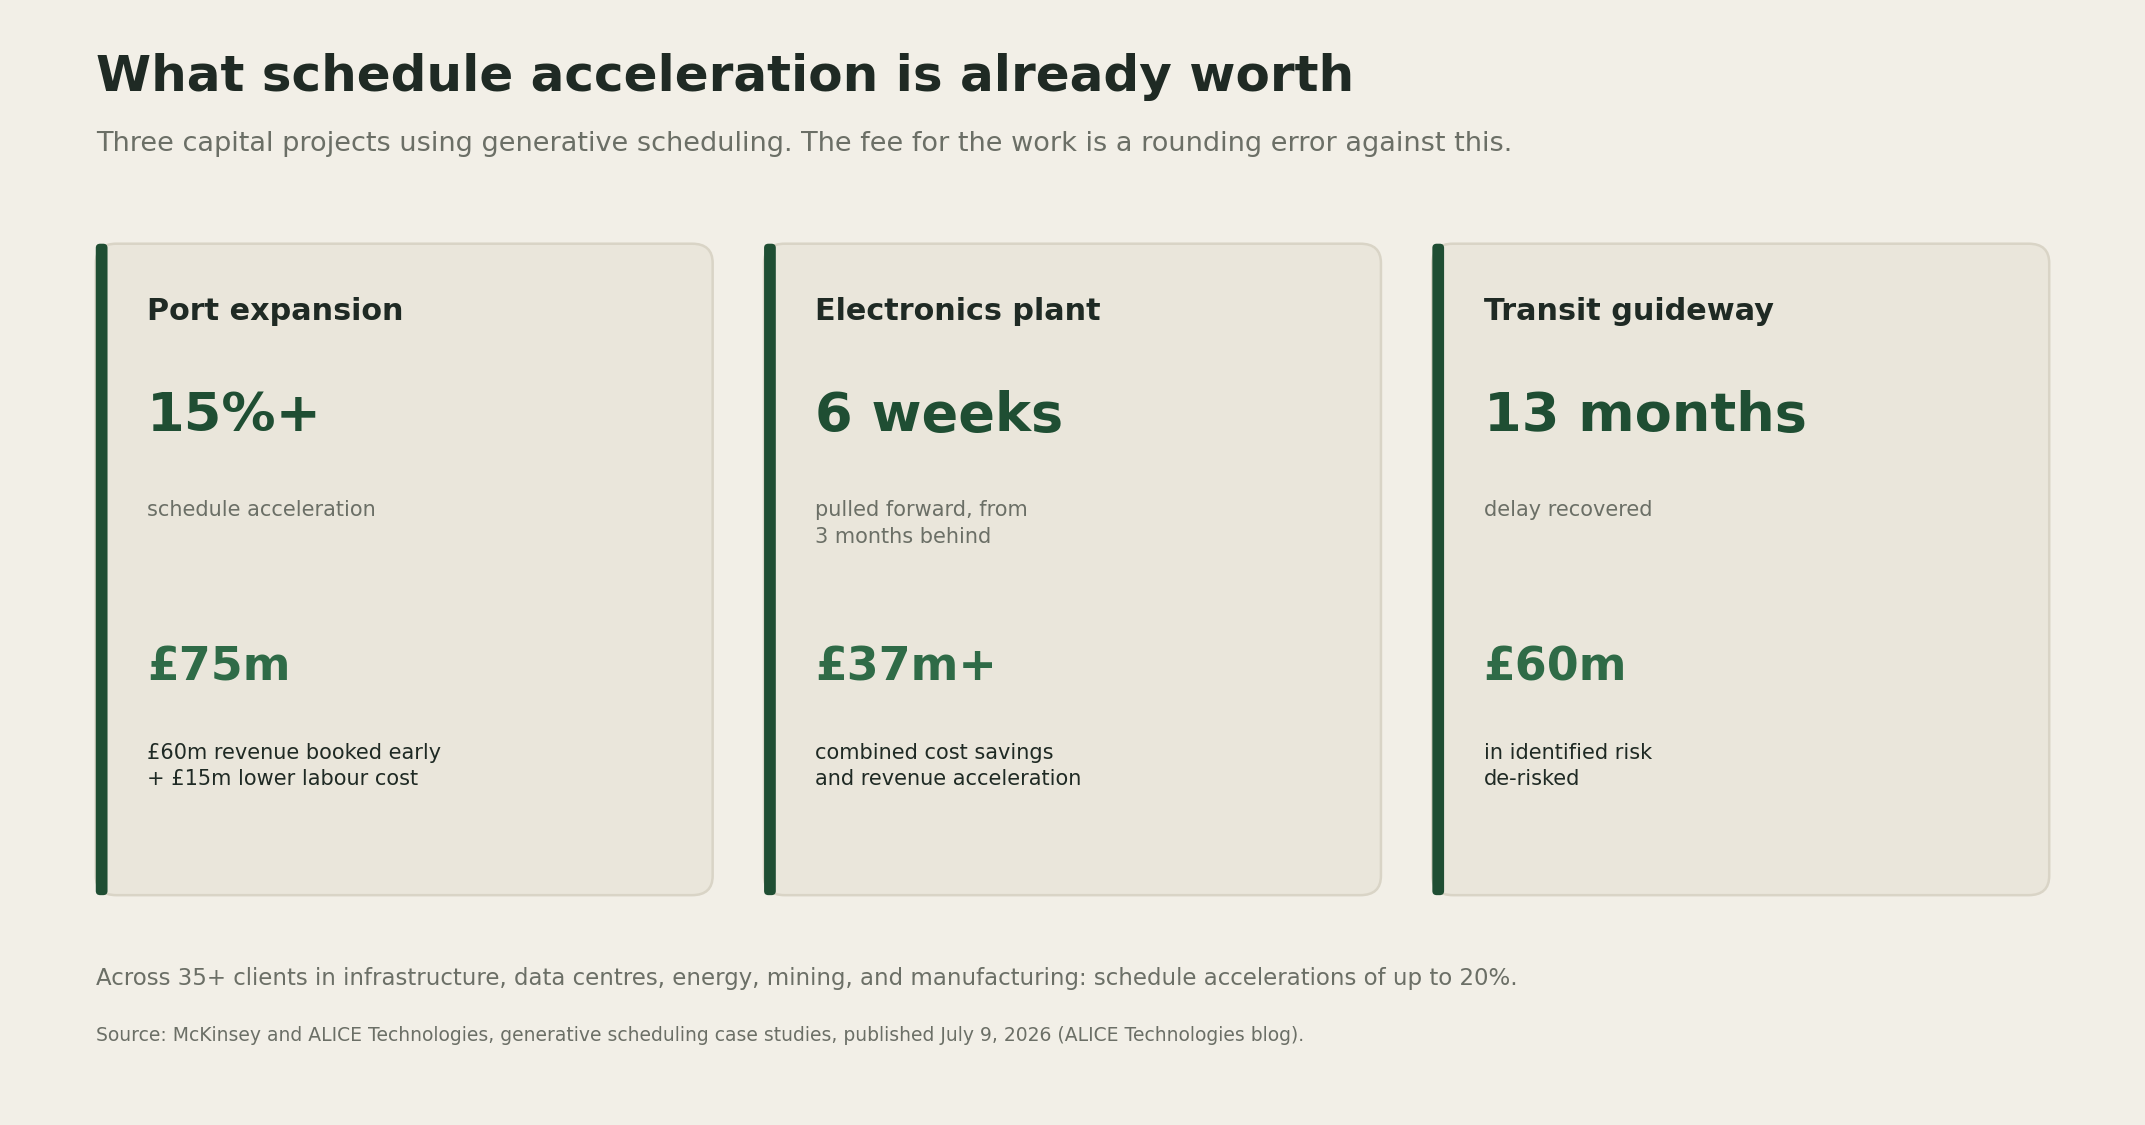
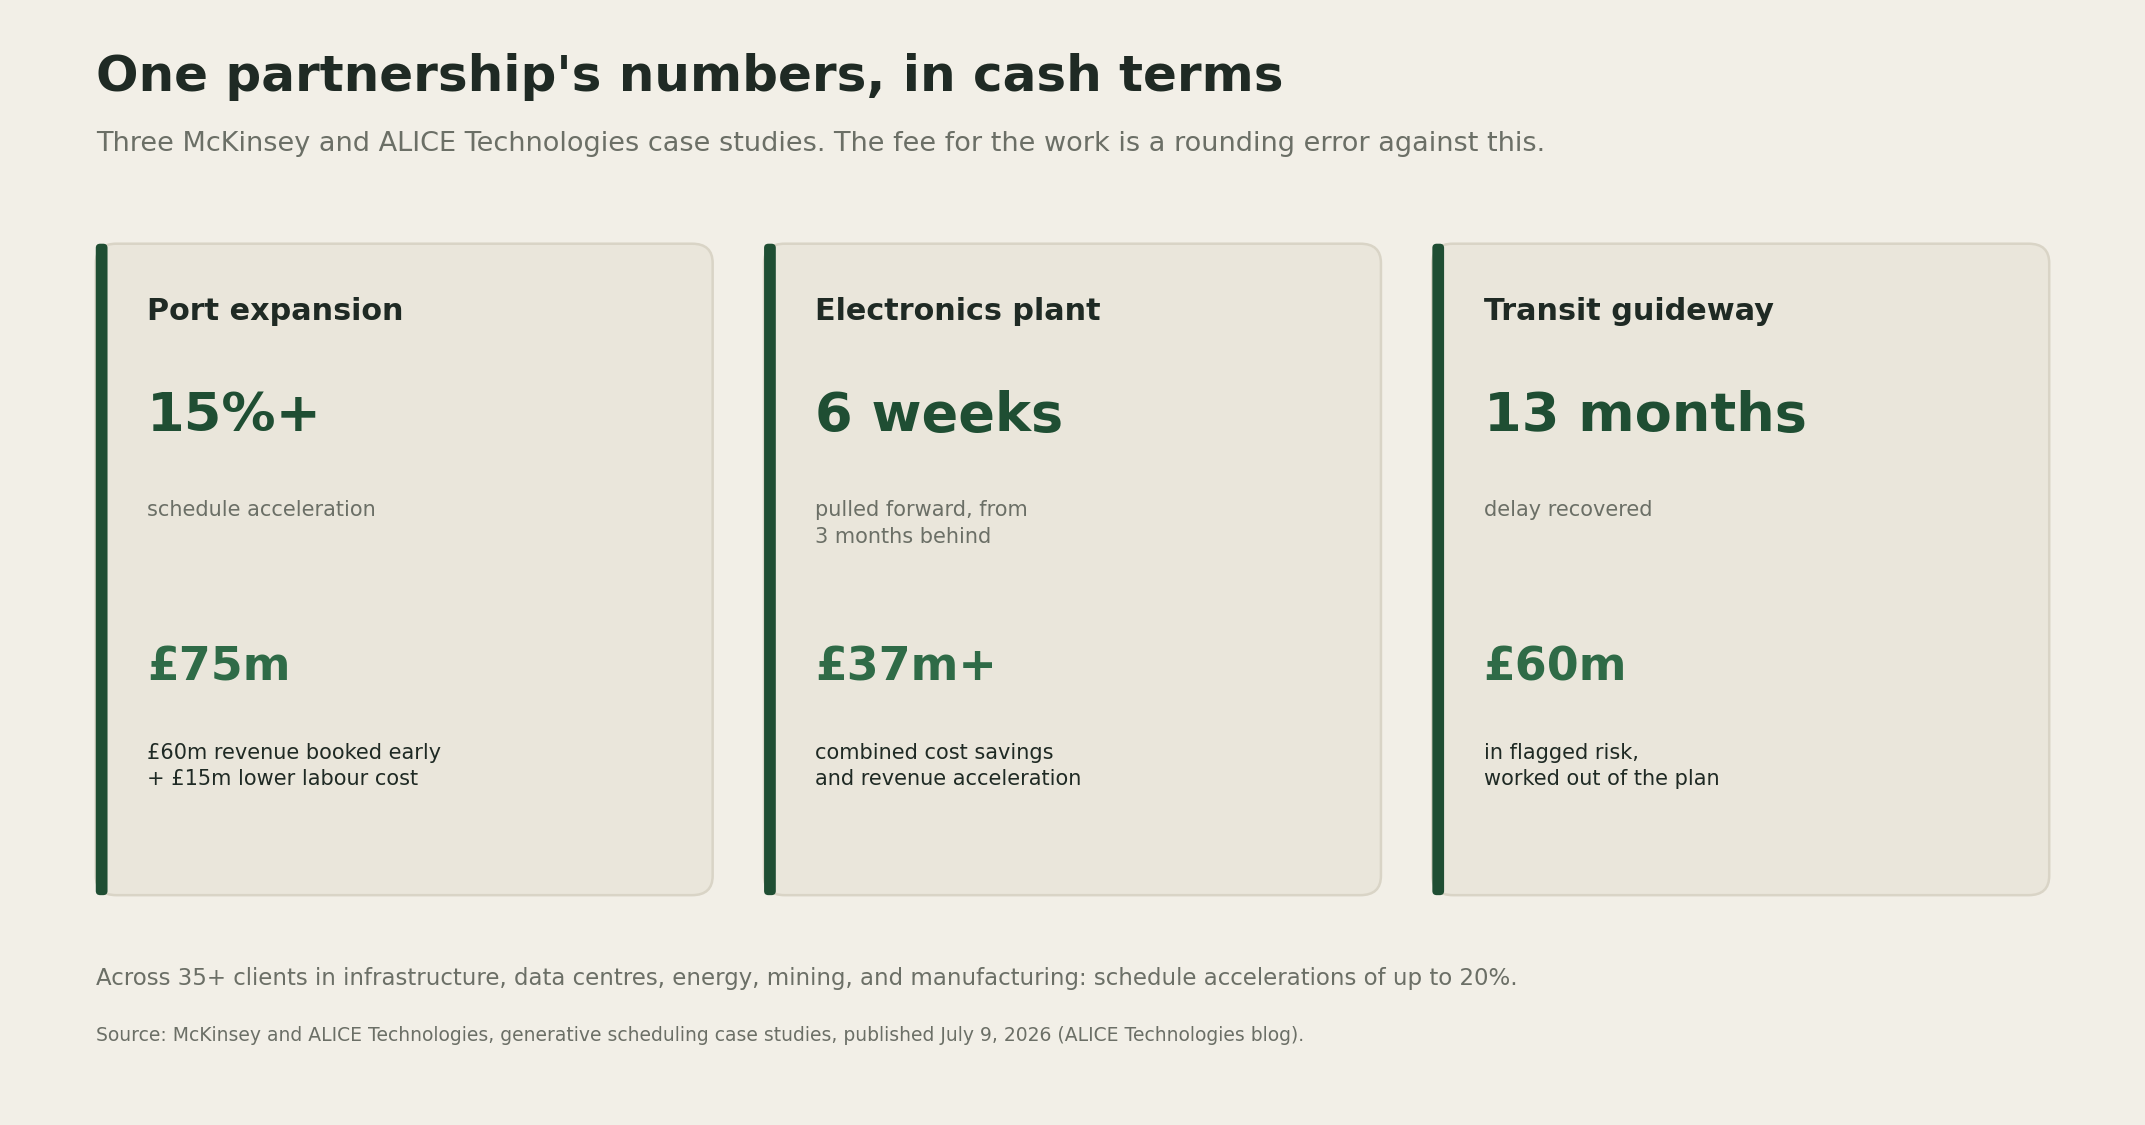
Rebalance sourcing in "The Speed Premium" and fix AI-slop patterns
Diversifies the evidence away from being entirely a McKinsey/ALICE
recap: adds Bent Flyvbjerg's Oxford megaproject research for the
baseline problem and nPlan's independent AACE technical paper for
AI scheduling performance, with McKinsey's report and the ALICE case
studies now one supporting leg instead of the whole argument. Also
fixes a binary-contrast sentence, a faux-insight setup, and a
subject-verb agreement slip caught in review.

Changed region(s): [[0.0312, 0.0311, 0.7184, 0.1556], [0.6872, 0.6533, 0.8121, 0.7156]]

diff --git a/scripts/make_speed_evidence.py b/scripts/make_speed_evidence.py
@@ -16,8 +16,8 @@ ax.set_xlim(0, 14.4)
 ax.set_ylim(0, 7.9)
 ax.axis("off")
 
-ax.text(0.55, 7.35, "What schedule acceleration is already worth", fontsize=24, fontweight="bold", color=INK, family="DejaVu Sans")
-ax.text(0.55, 6.92, "Three capital projects using generative scheduling. The fee for the work is a rounding error against this.", fontsize=13, color=GRAY, family="DejaVu Sans")
+ax.text(0.55, 7.35, "One partnership's numbers, in cash terms", fontsize=24, fontweight="bold", color=INK, family="DejaVu Sans")
+ax.text(0.55, 6.92, "Three McKinsey and ALICE Technologies case studies. The fee for the work is a rounding error against this.", fontsize=13, color=GRAY, family="DejaVu Sans")
 
 card_w = 4.2
 card_h = 4.7
@@ -45,7 +45,7 @@ cards = [
         "metric": "13 months",
         "metric_label": "delay recovered",
         "value": "£60m",
-        "value_label": "in identified risk\nde-risked",
+        "value_label": "in flagged risk,\nworked out of the plan",
     },
 ]
 

diff --git a/articles/2026-07-26-the-speed-premium.md b/articles/2026-07-26-the-speed-premium.md
@@ -7,25 +7,29 @@ audience: essay
 
 # The Speed Premium
 
-New numbers from McKinsey put a real price on how much a shorter schedule is worth, and on who currently keeps that money.
+A real price is starting to show up for how much a shorter schedule is worth, and right now the client keeps nearly all of it.
 
 AI is compressing how long engineering delivery takes. Right now the client keeps almost all of the value created when that happens. The firms that reprice around the days they pull forward, instead of the hours it took to pull them forward, get to keep a share of a pool of value that recent case studies put in the tens of millions of pounds per project.
 
-## The signal
+## The problem, before any vendor's pitch
 
-Three pieces of the same story landed within a few weeks of each other this month. McKinsey published "How AI is reshaping the future of the AEC industry" on July 15, 2026, arguing that AI can automate 50 percent of nonphysical work in architecture and engineering and 39 percent in construction, across 150 workflows in 25 domains ([Construction Dive](https://www.constructiondive.com/news/ai-report-construction-mckinsey-engineering-build-buy/825927/)). The line that matters most for this issue sits inside that report: firms that control their own project data and "the ability to charge for outcomes rather than work processes will see benefits."
+Bent Flyvbjerg, an Oxford professor who has spent three decades studying large projects, put the baseline plainly: nine out of ten megaprojects run over budget, and by his own arithmetic, roughly one project in a thousand hits its cost, schedule, and benefit targets all three at once ([Flyvbjerg, "The Iron Law of Megaproject Management," Oxford Handbook of Megaproject Management, 2017](https://ti.org/pdfs/IronLawofMegaprojects.pdf)). London's Jubilee Line extension overran by 80 percent in real terms. Boston's Big Dig overran by 220 percent. That baseline predates any firm's AI strategy by decades, and it is the actual size of the prize on the table.
 
-A week earlier, McKinsey's Capital Excellence Practice and its scheduling partner ALICE Technologies published case studies from clients running generative scheduling, software that models thousands of possible sequences through a project instead of trusting a single baseline plan ([ALICE Technologies](https://blog.alicetechnologies.com/news/how-using-al-saved-time-and-millions-across-three-big-capital-projects)). Daniel Ahmoye, a McKinsey partner, told Construction Dive that as the tools spread, "advantage is going to come from those who can redesign their work, their roles, how they operate, how they think about commercial models the fastest." He also cautioned that today's productivity gains are "likely soon to be table stakes." The window to charge for this will not stay open on its own.
+## The tools catching up to it
 
-## The evidence
+nPlan, a construction analytics company that trained its models on more than 750,000 historical project schedules, published a technical paper with AACE International in 2024 reporting that its graph neural network models forecast activity durations at least twice as accurately as traditional schedule risk analysis, measured against real project outcomes ([nPlan, AACE International Technical Paper RISK 4435, 2024](https://discover.nplan.io/hubfs/Research%20papers/AACE%20RISK%204435%20Technical%20Paper%20-%202024.pdf)). The paper's case study is a live one, not a demo: eighteen project control professionals on a UK rail program ran the AI models alongside their existing risk process for a year, then switched over entirely.
 
-Here is what the generative scheduling case studies found.
+## What that is worth in cash terms
+
+A similar shift shows up in a different corner of the market. McKinsey's Capital Excellence Practice and its scheduling partner ALICE Technologies published case studies in July from clients running generative scheduling, software that models thousands of possible sequences through a project instead of trusting a single baseline plan ([ALICE Technologies](https://blog.alicetechnologies.com/news/how-using-al-saved-time-and-millions-across-three-big-capital-projects)).
 
 ![Three capital projects using generative scheduling: a port expansion, an electronics plant, and a transit guideway, each showing the schedule move and the pounds of client value it produced.](../assets/speed-premium-evidence.png)
 
-A port expansion project ran more than 15 percent ahead of its original schedule. That produced £60 million in revenue booked earlier plus £15 million in lower labor cost from better use of crews, a combined £75 million. An electronics manufacturer, three months behind on a facility with more than 1,000 pieces of equipment to install, pulled six weeks back and captured over £37 million in combined savings and earlier revenue. An engineering, procurement, and construction firm building an elevated transit guideway recovered thirteen months of delay and worked out of £60 million of exposure it had already flagged. Across more than 35 clients in infrastructure, data centers, energy, mining, and manufacturing, McKinsey and ALICE report schedule accelerations of up to 20 percent.
+A port expansion project ran more than 15 percent ahead of its original schedule, producing £60 million in revenue booked earlier plus £15 million in lower labor cost, a combined £75 million. An electronics manufacturer, three months behind on a facility with more than 1,000 pieces of equipment to install, pulled six weeks back and captured over £37 million in combined savings and earlier revenue. A transit guideway project recovered thirteen months of delay and worked out of £60 million of exposure it had already flagged. Across more than 35 clients, the partnership reports schedule accelerations of up to 20 percent.
 
-None of those figures are fees. They are what the client captured. Under a time and materials contract, a firm that pulls a schedule forward bills fewer hours for the exact outcome the client values most. Speed, under the old pricing model, quietly shrinks a firm's own invoice.
+Every pound of that sits with the client until a firm attaches a fee to it. Under a time and materials contract, a firm that pulls a schedule forward bills fewer hours for the exact outcome the client values most. Speed, under the old pricing model, quietly shrinks a firm's own invoice.
+
+McKinsey made the pricing point directly in a separate report on July 15, 2026, arguing that firms which control their own project data and "the ability to charge for outcomes rather than work processes will see benefits" ([Construction Dive](https://www.constructiondive.com/news/ai-report-construction-mckinsey-engineering-build-buy/825927/)). The same report's warning matters just as much: today's productivity gains are "likely soon to be table stakes." The window to charge for this will not stay open on its own.
 
 ## The two tests
 
@@ -37,7 +41,7 @@ The value test asks whether the client's gain from a week saved, in revenue book
 
 The proof test asks whether the firm can name the specific number of weeks it will pull forward and stand behind it, rather than promise a general improvement. That is the harder bar, and it is the one generative scheduling tools exist to clear. Modeling thousands of paths through a project and comparing them against the baseline turns "we will be faster" into a specific, checkable figure a client can hold a firm to.
 
-I am fairly confident the value test passes on most large capital projects, since the case studies above are not outliers. McKinsey and ALICE chose them as representative of the client base. I am less confident that procurement processes at AEC clients, many of them public agencies or regulated utilities, will accept a schedule linked fee structure quickly. Contract templates change slower than the technology does.
+I am fairly confident the value test passes on most large capital projects. The scale of avoidable delay that Flyvbjerg has documented for decades, combined with the specific figures above, points the same direction. I am less confident that procurement processes at AEC clients, many of them public agencies or regulated utilities, will accept a schedule linked fee structure quickly. Contract templates change slower than the technology does.
 
 ## Where it fails
 
@@ -55,7 +59,7 @@ Both tests can fail on their own terms. A school, a community facility, or any a
 
 ## What I'm watching
 
-Whether McKinsey's own Capital Excellence Practice, or a competitor chasing the same clients, turns generative scheduling into a formally priced product line rather than a set of case studies attached to consulting engagements. And whether any AEC firm outside the McKinsey and ALICE partnership publishes its own schedule linked fee structure first, since that would be the clearest signal the value test has started working in the market rather than only on paper.
+Whether any of the AI scheduling vendors now proving out real accuracy gains, nPlan and ALICE among them, start pricing a share of the value they create instead of selling seats and licenses. And whether any AEC firm publishes its own schedule linked fee structure first, since that would be the clearest signal the value test has started working in the market rather than only on paper.
 
 ---
 
@@ -64,6 +68,7 @@ Author note, delete before publishing:
 - Replace [YOUR DETAIL HERE] with a specific memory: a project where a faster schedule saved the client real money and the firm still billed the same hourly fee, or a client conversation where speed came up in a fee negotiation.
 - Run the pre-publish checklist in docs/style-guide.md.
 - Currency note: the McKinsey/ALICE case study figures (£75m, £37m, £60m) are reported in pounds sterling in the source; left as published rather than converted.
+- Sourcing note: the piece leans on three independent legs, not just McKinsey: Flyvbjerg's Oxford megaproject research, nPlan's own AACE technical paper, and the McKinsey/ALICE case studies plus McKinsey's July AEC report for the pricing quote. Verified all four primary links directly (fetched full text, not just search summaries).
 - Framework images generated at assets/speed-premium-evidence.png and assets/speed-premium-framework.png via scripts/make_speed_evidence.py and scripts/make_speed_framework.py, same palette as the tokenomics and IP matrix assets.
 - Copy the prediction into templates/predictions-ledger.md the day this publishes.
 -->
